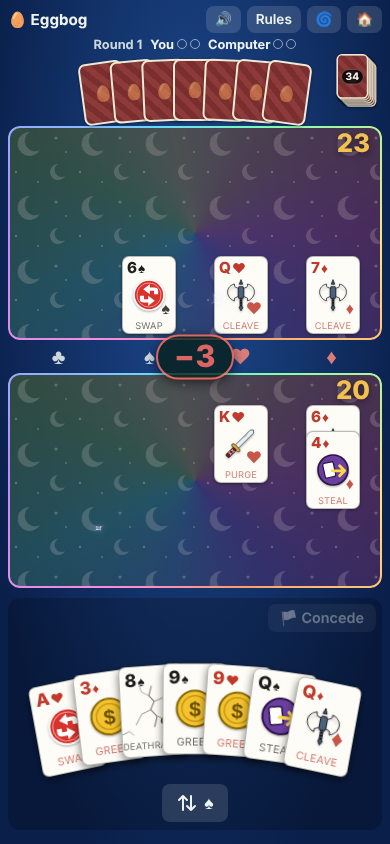
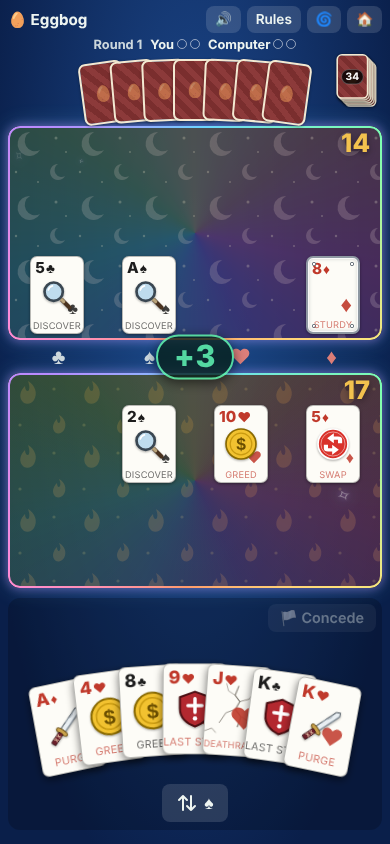
Joker mats fade in over 0.4s, with a soft outer glow
Claude-Session: https://claude.ai/code/session_01EenynZYFAe23gKSenoZ5tU

diff --git a/eggbog.html b/eggbog.html
@@ -153,9 +153,14 @@ header h2{margin:0;font-size:1.3rem}
 .card.joker.ghost{transition:filter .18s,box-shadow .18s}
 .card.joker.ghost.boost{filter:brightness(1.22) saturate(1.5);animation:holo 2.2s linear infinite,jkBoost .7s ease-in-out infinite alternate;box-shadow:0 0 0 2px #fff,0 0 26px 8px #fff,0 0 52px 18px #e08bffee,0 0 90px 34px #6bd6ffbb}
 @keyframes jkBoost{from{box-shadow:0 0 0 2px #fff,0 0 22px 6px #fff,0 0 44px 14px #e08bffcc,0 0 74px 26px #6bd6ff99}to{box-shadow:0 0 0 3px #fff,0 0 34px 12px #fff,0 0 66px 26px #ff9be8,0 0 110px 44px #6bd6ffcc}}
-:root.jokerfx .side{isolation:isolate}
-:root.jokerfx .side::before{content:"";position:absolute;inset:0;border-radius:inherit;z-index:-1;pointer-events:none;--a:0deg;background:conic-gradient(from var(--a) at 50% 50%,hsl(320 95% 70%),hsl(260 90% 70%),hsl(205 95% 68%),hsl(165 90% 65%),hsl(100 85% 65%),hsl(50 95% 68%),hsl(20 95% 70%),hsl(320 95% 70%));opacity:.24;mix-blend-mode:screen;animation:holo 6s linear infinite}
-:root.jokerfx .side::after{content:"";position:absolute;inset:0;border-radius:inherit;padding:2px;pointer-events:none;--a:0deg;background:conic-gradient(from var(--a),#ff8bd8,#b98bff,#6bd6ff,#7dffb0,#ffe37a,#ff9b6b,#ff8bd8);-webkit-mask:linear-gradient(#000 0 0) content-box,linear-gradient(#000 0 0);-webkit-mask-composite:xor;mask-composite:exclude;animation:holo 2.5s linear infinite;filter:drop-shadow(0 0 6px #c58bffaa)}
+.side{isolation:isolate;transition:box-shadow .45s ease}
+.side::before,.side::after{content:"";position:absolute;inset:0;border-radius:inherit;pointer-events:none;opacity:0;transition:opacity .4s ease;--a:0deg}
+.side::before{z-index:-1;background:conic-gradient(from var(--a) at 50% 50%,hsl(320 95% 70%),hsl(260 90% 70%),hsl(205 95% 68%),hsl(165 90% 65%),hsl(100 85% 65%),hsl(50 95% 68%),hsl(20 95% 70%),hsl(320 95% 70%));mix-blend-mode:screen}
+.side::after{padding:2px;background:conic-gradient(from var(--a),#ff8bd8,#b98bff,#6bd6ff,#7dffb0,#ffe37a,#ff9b6b,#ff8bd8);-webkit-mask:linear-gradient(#000 0 0) content-box,linear-gradient(#000 0 0);-webkit-mask-composite:xor;mask-composite:exclude}
+:root.jokerfx .side::before{opacity:.24;animation:holo 6s linear infinite}
+:root.jokerfx .side::after{opacity:1;animation:holo 2.5s linear infinite}
+:root.jokerfx .side{box-shadow:0 0 10px 1px #c58bff66,0 0 20px 3px #6bd6ff33}
+:root.jokerfx .side.active{box-shadow:0 0 0 2px var(--gold),0 0 18px #f2c14e55,0 0 10px 1px #c58bff66,0 0 20px 3px #6bd6ff33}
 @media (prefers-reduced-motion:reduce){:root.jokerfx .side::before,:root.jokerfx .side::after{animation:none}}
 .jkthink{translate:0 -6px;outline:3px solid #c58bff;box-shadow:0 0 14px 4px #c58bffaa;filter:brightness(1.12)}
 .jkchosen{translate:0 -14px;outline:3px solid #fff;box-shadow:0 0 0 2px #c58bff,0 0 22px 8px #e08bffcc,0 0 40px 14px #6bd6ff88;filter:brightness(1.15);animation:jkChosen .5s ease-out}
